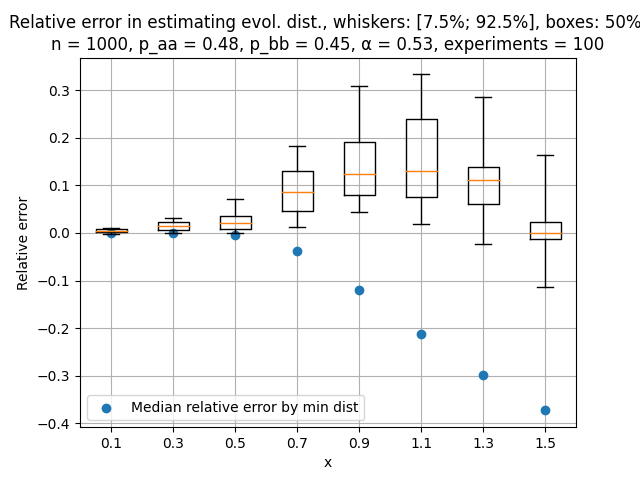
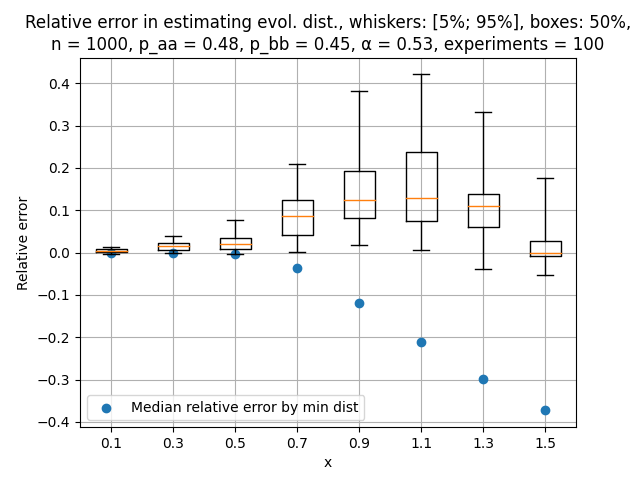
fixed estimate_alpha and add plots to compare estimated true evolutionary distance for fixed and found parameters

diff --git a/3d_fragile_breakage_model/src/compute_statistics.py b/3d_fragile_breakage_model/src/compute_statistics.py
@@ -200,23 +200,18 @@ def estimate_alpha(x, p_aa, p_bb, aa_cycles, ab_cycles, bb_cycles):
         return [alpha1]
 
     def estimate_alpha_aa_bb():
-        if (
-            p_aa != 0
-            and p_bb != 0
-            and aa_cycles != 0
-            and bb_cycles != 0
-            and not (aa_cycles == bb_cycles and p_aa == p_bb)
-        ):
+        if p_aa != 0 and p_bb != 0 and aa_cycles != 0 and bb_cycles != 0:
             aa_cycles_divide_bb = aa_cycles / bb_cycles
             y = math.log(aa_cycles_divide_bb * p_bb / p_aa) / x
+            if abs(y) < eps_zero:
+                alpha1 = (p_aa - p_bb + 1) / 2
+                return check_alphas(alpha1, -1)
+
             d = 16 + y ** 2 + 8 * y * p_aa - 8 * y * p_bb
             if d < 0:
                 return []
-            elif d == 0:
+            if d < eps_zero:
                 alpha1 = (y - 4) / (2 * y)
-                return check_alphas(alpha1, -1)
-            if y == 0:
-                alpha1 = (p_aa - p_bb + 1) / 2
                 return check_alphas(alpha1, -1)
 
             alpha1 = (math.sqrt(d) + y - 4) / (2 * y)
@@ -225,23 +220,18 @@ def estimate_alpha(x, p_aa, p_bb, aa_cycles, ab_cycles, bb_cycles):
         return []
 
     def estimate_alpha_aa_ab():
-        if (
-            p_aa != 0
-            and p_ab != 0
-            and aa_cycles != 0
-            and ab_cycles != 0
-            and not (aa_cycles == ab_cycles and p_aa == p_ab)
-        ):
+        if p_aa != 0 and p_ab != 0 and aa_cycles != 0 and ab_cycles != 0:
             aa_cycles_divide_ab = aa_cycles / ab_cycles
             y = math.log(aa_cycles_divide_ab * p_ab / p_aa) / x
+            if abs(y) < eps_zero:
+                alpha1 = (p_aa - p_bb + 1) / 2
+                return check_alphas(alpha1, -1)
+
             d = 4 + y ** 2 - 4 * y * p_bb + 4 * y * p_aa
             if d < 0:
                 return []
-            if d == 0:
+            if d < eps_zero:
                 alpha1 = (-2 + y) / (2 * y)
-                return check_alphas(alpha1, -1)
-            if y == 0:
-                alpha1 = (p_aa - p_bb + 1) / 2
                 return check_alphas(alpha1, -1)
 
             alpha1 = (math.sqrt(d) - 2 + y) / (2 * y)
@@ -250,24 +240,19 @@ def estimate_alpha(x, p_aa, p_bb, aa_cycles, ab_cycles, bb_cycles):
         return []
 
     def estimate_alpha_bb_ab():
-        if (
-            p_ab != 0
-            and p_bb != 0
-            and ab_cycles != 0
-            and bb_cycles != 0
-            and not (bb_cycles == ab_cycles and p_ab == p_bb)
-        ):
+        if p_ab != 0 and p_bb != 0 and ab_cycles != 0 and bb_cycles != 0:
             bb_cycles_divide_ab = bb_cycles / ab_cycles
             y = math.log(bb_cycles_divide_ab * p_ab / p_bb) / x
+            if abs(y) < eps_zero:
+                alpha1 = (2 * p_aa + p_ab) / 2
+                return check_alphas(alpha1, -1)
+
             d = y ** 2 + 4 + 4 * y * p_bb - 4 * y * p_aa
             if d < 0:
                 return []
-            if d == 0:
+            if d < eps_zero:
                 alpha1 = (y + 2) / (2 * y)
                 return [alpha1]
-            if y == 0:
-                alpha1 = (2 * p_aa + p_ab) / 2
-                return check_alphas(alpha1, -1)
 
             alpha1 = (math.sqrt(d) + y + 2) / (2 * y)
             alpha2 = (-1 * math.sqrt(d) + y + 2) / (2 * y)
@@ -281,6 +266,7 @@ def estimate_alpha(x, p_aa, p_bb, aa_cycles, ab_cycles, bb_cycles):
     if bb_cycles == 0 and ab_cycles == 0:
         return [1]
 
+    eps_zero = 1e-8
     p_ab = max(1 - p_aa - p_bb, 0.0)
     alpha_aa_bb = estimate_alpha_aa_bb()
     alpha_aa_ab = estimate_alpha_aa_ab()
@@ -328,9 +314,9 @@ def estimate_alphas_for_graphs(start_ind, end_ind, to_represent):
             parents=True, exist_ok=True
         )
 
-        graphs = read_experiments_cycles_info(file, 4, 4, False, is_cycles_ordered=False)[
-            0
-        ][:1501]
+        graphs = read_experiments_cycles_info(
+            file, 4, 4, False, is_cycles_ordered=False
+        )[0][:1501]
 
         alphas = []
         n = parameters.NUMBER_OF_FRAGILE_EDGES
@@ -392,7 +378,7 @@ def cycles_distribution_in_one_length(cycle_types, parameter_index, colors):
         len(cycle_types[0]) + 1,
         len(cycle_types[0]) + 1,
         is_int=False,
-        is_cycles_ordered=True
+        is_cycles_ordered=True,
     )
     print("finish read", (time.time() - start_time) / 60, "m")
 

diff --git a/3d_fragile_breakage_model/src/true_evolutionary_distance.py b/3d_fragile_breakage_model/src/true_evolutionary_distance.py
@@ -754,38 +754,43 @@ def draw_true_dist_for_parameters(folder_name, parameter_index, draw_parameters)
 
 
 def draw_true_dist_with_additional_plot(
-    additional_folder, additional_label, folder_to_save
+    index_of_parameters, additional_folder, additional_label, folder_to_save
 ):
-    for cur_parameters in parameters.PROBABILITIES_WITH_ALPHA:
-        parameters_str, p_aa, p_bb, alpha = (
-            cur_parameters["parameters_str"],
-            cur_parameters["p_aa"],
-            cur_parameters["p_bb"],
-            cur_parameters["alpha"],
-        )
-        plot_title = build_parameters_for_plot_title(p_aa, p_bb, alpha)
-        print(plot_title)
+    cur_parameters = parameters.PROBABILITIES_WITH_ALPHA[index_of_parameters]
+    parameters_str, p_aa, p_bb, alpha = (
+        cur_parameters["parameters_str"],
+        cur_parameters["p_aa"],
+        cur_parameters["p_bb"],
+        cur_parameters["alpha"],
+    )
+    plot_title = build_parameters_for_plot_title(p_aa, p_bb, alpha)
+    print(plot_title)
 
-        dist_info_fixed = read_logs(
-            "3d_fragile_breakage_model/logs/true_evolution_distance_fixed/"
-            + parameters_str
-            + ".csv"
-        )
+    all_dist_info_fixed = read_logs(
+        "3d_fragile_breakage_model/logs/true_evolution_distance_fixed/"
+        + parameters_str
+        + ".csv"
+    )
 
-        dist_info_found = read_logs(
-            "3d_fragile_breakage_model/logs/"
-            + additional_folder
-            + parameters_str
-            + ".csv"
-        )
+    dist_info_found = read_logs(
+        "3d_fragile_breakage_model/logs/"
+        + additional_folder
+        + parameters_str
+        + ".csv"
+    )
+    need_ks = set(map(lambda info: info["empirical_true_dist"], dist_info_found))
+    dist_info_fixed = []
+    for k in range(len(all_dist_info_fixed)):
+        if all_dist_info_fixed[k]["empirical_true_dist"] in need_ks:
+            dist_info_fixed.append(all_dist_info_fixed[k])
 
-        draw_dists(
-            dist_info_fixed,
-            dist_info_found,
-            additional_label,
-            plot_title,
-            "3d_fragile_breakage_model/plots/" + folder_to_save + parameters_str,
-        )
+    draw_dists(
+        dist_info_fixed,
+        dist_info_found,
+        additional_label,
+        plot_title,
+        "3d_fragile_breakage_model/plots/" + folder_to_save + parameters_str,
+    )
 
 
 def get_median_errors_by_min_dist(parameter_index, number_of_experiments, k_step=100):
@@ -937,8 +942,8 @@ def main():
     #     method=method_to_run,
     # )
     # get_median_errors_by_min_dist(index_of_parameters, number_of_experiments)
-    from_percentile = 7.5
-    to_percentile = 92.5
+    from_percentile = 5
+    to_percentile = 95
     draw_box_plot(
         folder_name=method_to_run,
         number_of_experiments=number_of_experiments,
@@ -946,6 +951,7 @@ def main():
         from_percentile=from_percentile,
         to_percentile=to_percentile
     )
+    # index_of_parameters = 4
     # compute_true_evolutionary_distance(index_of_parameters, method_to_run)
     # draw_true_dist_for_parameters(
     #     method_to_run,
@@ -953,7 +959,8 @@ def main():
     #     draw_parameters=True,
     # )
     # draw_true_dist_with_additional_plot(
-    #     "true_evolution_distance_found_parameters/",
+    #     index_of_parameters,
+    #     "true_evolution_distance_found_parameters/1/log_",
     #     "Estimated true distance with found parameters",
     #     "true_evolution_distance_fixed_and_found_parameters/",
     # )
